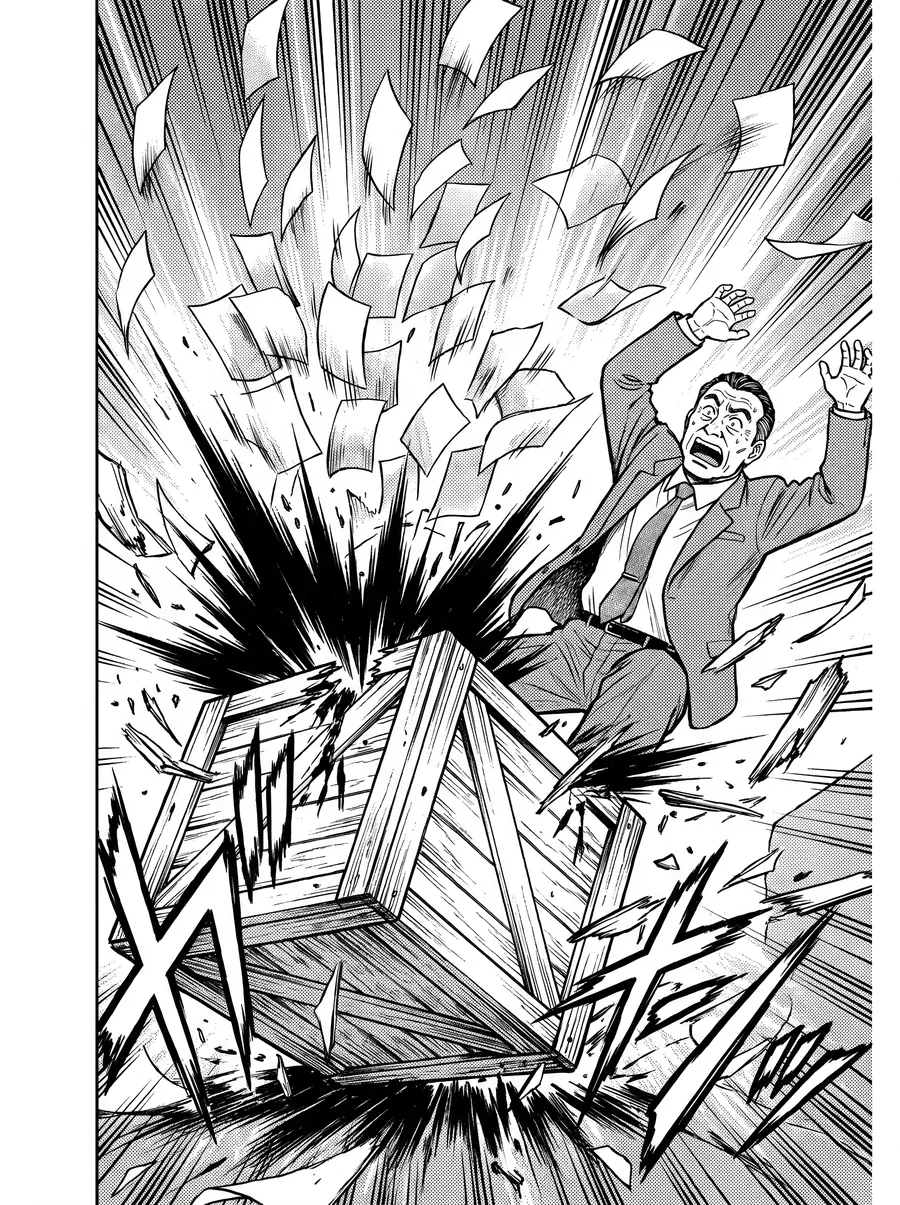
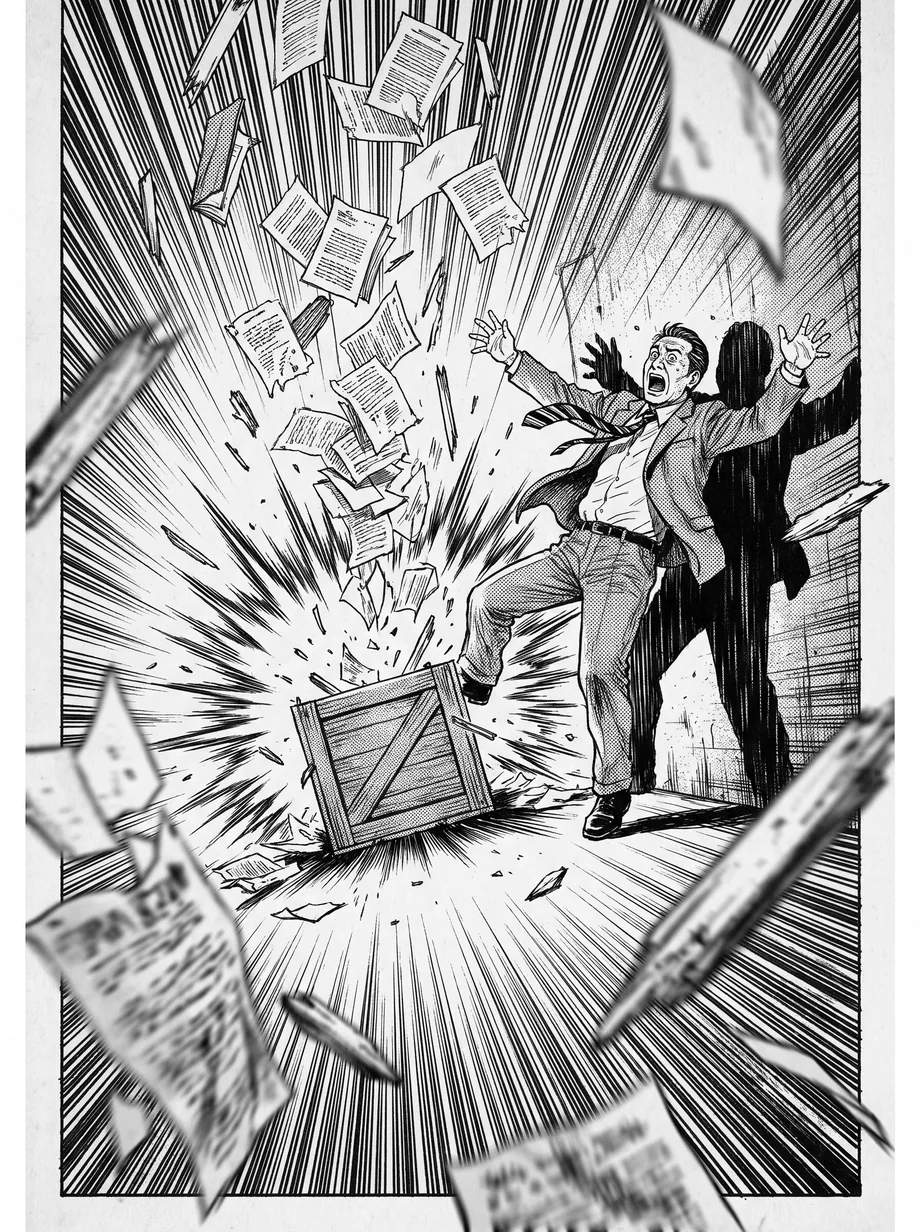
feat: 웹툰 Pro 재생성 + 다의어/워크북/트랙 개편
- 웹툰 4컷을 Nano Banana Pro로 재생성(명작만화 수준), 흑백 정규화
- 다의어: contain/concentration/capital 3개 어휘 카드로 교체(옛 이미지 제거)
- 워크북: 어법 택1 + 빈칸 어휘 채우기 실물 구성으로 교체
- 기본설계/주간사이클 → 자기주도 트랙 vs 업로드 관리 트랙 2단 인포그래픽
- 자리 현황판: '석' 표기 제거, 하남고1·미사강변고2·미사고2 마감임박 / 나머지 신청 가능

diff --git a/v2/index.html b/v2/index.html
@@ -322,6 +322,88 @@ footer b{color:#c6c9d2}
   .mp-bub{font-size:13.5px;padding:10px 12px}
 }
 
+
+/* 자리 현황판 */
+.seat .left.ok{color:#3f7f5c!important;background:#e9f5ee!important}
+.seat.urgent{border-color:#d4553f!important;background:#fff6f3!important}
+.seat.urgent .left{color:#c4472e!important;background:#ffe6df!important;font-weight:800}
+
+/* 다의어 */
+.poly{display:grid;gap:14px;margin:6px 0 4px}
+.pw{background:#fff;border:1px solid var(--paper-line);border-radius:16px;padding:20px 22px;
+  box-shadow:0 8px 22px rgba(25,31,40,.06)}
+.pw-h{display:flex;align-items:baseline;gap:12px;flex-wrap:wrap}
+.pw-h b{font-size:26px;font-weight:900;letter-spacing:-.02em;color:#12203A}
+.pw-h span{font-size:15px;font-weight:700;color:#8a7a52}
+.pw-core{margin:10px 0 14px;font-size:14px;color:var(--muted);background:#faf7f0;
+  border-radius:9px;padding:9px 13px}
+.pw-core b{color:#12203A}
+.pw ul{list-style:none;margin:0;padding:0;display:flex;flex-direction:column;gap:9px}
+.pw li{font-size:14.5px;line-height:1.6;color:#2c3646;display:flex;gap:9px;align-items:flex-start;
+  padding-bottom:9px;border-bottom:1px dashed var(--paper-line)}
+.pw li:last-child{border-bottom:0;padding-bottom:0}
+.pw li .s{flex:0 0 auto;color:#b08a16;font-weight:900}
+.pw li b{margin-right:6px;color:#12203A}
+.pw li u{text-decoration:none;font-weight:800;color:#b4472e;border-bottom:2px solid #f0d9a0}
+.pw li i{display:block;font-style:normal;font-size:13px;color:var(--muted);margin-top:2px}
+.pw-syn{margin-top:14px;font-size:13px;color:var(--muted);background:#f2f6fb;
+  border-radius:9px;padding:9px 13px}
+.pw-syn b{color:#2a4a7a;margin-right:6px}
+
+/* 워크북 */
+.wb{background:#fff;border:1px solid var(--paper-line);border-radius:16px;padding:22px 24px;
+  box-shadow:0 8px 22px rgba(25,31,40,.06)}
+.wb-top{display:flex;align-items:center;gap:11px;padding-bottom:12px;border-bottom:2px solid #12203A}
+.wb-no{width:28px;height:28px;border-radius:8px;background:#12203A;color:#fff;font-weight:900;
+  font-size:15px;display:flex;align-items:center;justify-content:center}
+.wb-top b{font-size:17px;font-weight:800;color:#12203A}
+.wb-pt{margin-left:auto;font-size:13px;font-weight:800;color:#b08a16}
+.wb-q{margin:16px 0 0;padding-left:22px;display:flex;flex-direction:column;gap:14px}
+.wb-q li{font-size:15px;line-height:1.85;color:#22303f}
+.wb-q .ch{display:inline-block;border:1.5px solid #b08a16;border-radius:8px;padding:2px 10px;
+  background:#fffaf0;margin:0 2px}
+.wb-q .ch em{font-style:normal;font-weight:800;color:#12203A}
+.wb-q .bl{display:inline-block;width:130px;border-bottom:2px solid #12203A;margin:0 4px}
+.wb-q .hint{font-size:12.5px;color:#a08a5e;letter-spacing:.06em;margin-left:6px}
+.wb-foot{margin-top:18px;padding-top:14px;border-top:1px dashed var(--paper-line);
+  font-size:13px;color:var(--muted)}
+
+/* 2트랙 */
+.tracks{display:grid;grid-template-columns:1fr 1fr;gap:18px;margin:10px 0 16px}
+.tk{background:#fff;border:1px solid var(--paper-line);border-radius:20px;padding:24px 24px 22px;
+  box-shadow:0 12px 30px rgba(25,31,40,.08);display:flex;flex-direction:column}
+.tk-a{border-top:5px solid #3a6ea8}
+.tk-b{border-top:5px solid #b08a16}
+.tk-badge{display:inline-block;font-size:11.5px;font-weight:800;letter-spacing:.09em;
+  padding:5px 11px;border-radius:999px;background:#eaf1f9;color:#2a4a7a}
+.tk-badge.gold{background:#fbf3e0;color:#8a6a10}
+.tk-h b{display:block;font-size:23px;font-weight:900;letter-spacing:-.02em;margin:11px 0 6px;color:#12203A}
+.tk-h p{margin:0;font-size:14px;color:var(--muted)}
+.tk-tl{margin:18px 0 16px;display:flex;flex-direction:column}
+.tl-row{display:flex;gap:14px;padding:11px 0;border-bottom:1px dashed var(--paper-line);position:relative}
+.tl-row:last-child{border-bottom:0}
+.tl-w{flex:0 0 62px;font-size:13px;font-weight:900;color:#3a6ea8;padding-top:2px}
+.tk-b .tl-w{color:#b08a16}
+.tl-row.opt .tl-w{color:#9aa3ae}
+.tl-b b{display:block;font-size:14.5px;font-weight:800;color:#12203A}
+.tl-b span{display:block;font-size:13px;color:var(--muted);margin-top:2px;line-height:1.5}
+.tk-week{display:grid;grid-template-columns:repeat(7,1fr);gap:5px;margin-top:auto}
+.wd{background:#f6f7f9;border-radius:10px;padding:9px 4px;text-align:center}
+.wd i{display:block;font-style:normal;font-size:12px;font-weight:800;color:#9aa3ae;margin-bottom:5px}
+.wd b{display:block;font-size:11px;font-weight:700;color:#5c6b7f;line-height:1.35}
+.wd small{display:block;font-size:9.5px;font-weight:600;color:#9aa3ae;margin-top:2px}
+.wd.on{background:#e8f0fa}.wd.on i{color:#2a4a7a}.wd.on b{color:#1d3557}
+.tk-b .wd.on{background:#fbf3e0}.tk-b .wd.on i{color:#8a6a10}.tk-b .wd.on b{color:#6b520c}
+.wd.act{background:#eaf6f0}.wd.act i{color:#2f7a54}.wd.act b{color:#245c3f}
+.wd.hot{background:#fdeee9}.wd.hot i{color:#b4472e}.wd.hot b{color:#8f3722}
+.wd.soft{background:#f2f2f4}.wd.soft b{color:#7c8494}
+.tk-note{margin-top:14px;font-size:12.5px;line-height:1.6;color:var(--muted);
+  background:#f7f7f5;border-radius:10px;padding:10px 13px}
+.joinnote{background:#eef4fb;border:1px solid #d5e3f2;border-radius:14px;padding:16px 20px;
+  font-size:14.5px;line-height:1.65;color:#2f4463}
+.joinnote b{color:#12203A}
+@media(max-width:800px){.tracks{grid-template-columns:1fr}.tk-week{grid-template-columns:repeat(4,1fr)}}
+
 </style>
 </head>
 <body>
@@ -533,17 +615,63 @@ footer b{color:#c6c9d2}
       <div class="num">07</div>
       <h3>단어장이 아니라, 어감까지 잡는 다의어 정리</h3>
       <p>다의어는 뜻 나열이 아니라 <b>핵심 어감</b>부터 잡고 갈래를 폅니다. 유의어는 시험이 좋아하는 <b>패러프레이징 짝</b>으로 묶습니다.</p>
-      <img src="../img/cu_polysemy.jpg" alt="진짜 다의어 — 어감과 핵심 의미" loading="lazy" style="margin-bottom:12px">
-      <img src="../img/cu_synonym.jpg" alt="유의어 패러프레이징 정리" loading="lazy">
-      <span class="tag">다의어 · 유의어 패러프레이징 (실물 확대)</span>
+      <div class="poly">
+        <div class="pw">
+          <div class="pw-h"><b>contain</b><span>담다 · 억누르다</span></div>
+          <div class="pw-core">핵심 어감 — <b>안에 가두어 두다</b></div>
+          <ul>
+            <li><span class="s">①</span><b>담고 있다</b> The box <u>contains</u> old files. <i>상자가 오래된 서류를 담고 있다</i></li>
+            <li><span class="s">②</span><b>억누르다</b> He couldn't <u>contain</u> his anger. <i>그는 분노를 억누를 수 없었다</i></li>
+            <li><span class="s">③</span><b>차단·봉쇄하다</b> to <u>contain</u> the spread <i>확산을 막다</i></li>
+          </ul>
+          <div class="pw-syn"><b>패러프레이징</b> contain ↔ hold · include · suppress · curb</div>
+        </div>
+        <div class="pw">
+          <div class="pw-h"><b>concentration</b><span>집중 · 농도</span></div>
+          <div class="pw-core">핵심 어감 — <b>한곳으로 모임</b></div>
+          <ul>
+            <li><span class="s">①</span><b>집중력</b> It requires deep <u>concentration</u>. <i>깊은 집중을 요한다</i></li>
+            <li><span class="s">②</span><b>농도</b> a high <u>concentration</u> of salt <i>높은 소금 농도</i></li>
+            <li><span class="s">③</span><b>밀집</b> a <u>concentration</u> of shops <i>상점의 밀집</i></li>
+          </ul>
+          <div class="pw-syn"><b>패러프레이징</b> concentration ↔ focus · density · cluster</div>
+        </div>
+        <div class="pw">
+          <div class="pw-h"><b>capital</b><span>수도 · 자본 · 대문자</span></div>
+          <div class="pw-core">핵심 어감 — <b>으뜸가는 것 · 머리가 되는 것</b></div>
+          <ul>
+            <li><span class="s">①</span><b>수도</b> Seoul is the <u>capital</u> of Korea. <i>서울은 한국의 수도다</i></li>
+            <li><span class="s">②</span><b>자본</b> raise <u>capital</u> for a startup <i>창업 자본을 모으다</i></li>
+            <li><span class="s">③</span><b>대문자</b> Write it in <u>capital</u> letters. <i>대문자로 쓰시오</i></li>
+          </ul>
+          <div class="pw-syn"><b>패러프레이징</b> capital ↔ funds · assets · principal city</div>
+        </div>
+      </div>
+      <span class="tag">다의어 · 유의어 패러프레이징 (실물 구성)</span>
     </div>
 
     <div class="cu rv">
       <div class="num">08</div>
       <h3>워크북 — 출제 포인트만 뚫어 놓은 시험지</h3>
       <p>분석서를 봤으면 확인해야 합니다. 어법 선택형 · 서술형 · <b>서술형 영작</b> · 빈칸 — 출제 가능성이 높은 지점만 박스로 뚫어 놓은 복습 워크북이 분석서와 별개로 나갑니다.</p>
-      <img src="../img/cu_workbook.jpg" alt="빈칸 워크북 실물" loading="lazy">
-      <span class="tag">복습 워크북 · 직독직해 빈칸 파트 (실물)</span>
+      <div class="wb">
+        <div class="wb-top"><span class="wb-no">1</span><b>어법 — 둘 중 하나 고르기</b><span class="wb-pt">각 2점</span></div>
+        <ol class="wb-q">
+          <li>Before the Internet, companies could <span class="ch"><em>hide</em> / <em>hiding</em></span> their flaws.</li>
+          <li>Everything <span class="ch"><em>popped</em> / <em>was popped</em></span> out of the box.</li>
+          <li>Now consumers can compare prices, reviews, and even a <span class="ch"><em>company's</em> / <em>companies</em></span> truthfulness.</li>
+          <li>The power <span class="ch"><em>has shifted</em> / <em>has been shifted</em></span> to the customer.</li>
+        </ol>
+        <div class="wb-top" style="margin-top:22px"><span class="wb-no">2</span><b>빈칸 — 알맞은 어휘 채우기</b><span class="wb-pt">각 3점</span></div>
+        <ol class="wb-q blank">
+          <li>The box could no longer <span class="bl"></span> what was inside. <span class="hint">c______</span></li>
+          <li>Customers now check a company's <span class="bl"></span> before buying. <span class="hint">t____________</span></li>
+          <li>Everything <span class="bl"></span> out of the box at once. <span class="hint">p_____</span></li>
+          <li>Now customers can talk <span class="bl"></span>. <span class="hint">b___</span></li>
+        </ol>
+        <div class="wb-foot">서술형 영작 · 직독직해 빈칸 파트는 실물 워크북에 이어집니다</div>
+      </div>
+      <span class="tag">적중 워크북 · 어법 택1 + 빈칸 어휘 (실물 구성)</span>
     </div>
 
     <div class="cu rv" style="margin-bottom:0">
@@ -596,27 +724,47 @@ footer b{color:#c6c9d2}
     </div>
     <p class="sample-tag">※ 리포트 양식 예시. 실제 리포트는 자녀의 제출 데이터로 작성되며, 발송 전 원장이 직접 확인합니다.</p>
 
-    <div class="mplan rv" aria-label="기본 설계">
-      <h4>📅 기본 설계 <span>— 4~6주 완성 (최대 8주)</span></h4>
-      <div class="mrow"><span class="wk">1주</span><span class="mtxt">분석서 전량 수령·정독 + 동형 1회 — <b>동형은 첫 주부터</b></span><span class="mtag">개념+실전</span></div>
-      <div class="mrow"><span class="wk">2~5주</span><span class="mtxt">매주 동형 1회 + 워크북(어법·서술형·영작·빈칸) 순환 + 지문별 드릴</span><span class="mtag">문제 5주</span></div>
-      <div class="mrow"><span class="wk">6주</span><span class="mtxt">오답 총정리 + 마무리 점검 — 여기까지가 완성</span><span class="mtag">6주 완성</span></div>
-      <div class="mrow"><span class="wk">+7~8주</span><span class="mtxt">원하는 경우만 — 보충·유형별 문제 신청 구간</span><span class="mtag">선택</span></div>
-    </div>
-    <div class="join-late rv"><b>중간에 합류해도 됩니다.</b> 언제 신청하든 — 오늘 신청하면 내일 시험 범위를 확인해 드리고, 확인 즉시 <b>분석서 전량</b>이 지급됩니다. 이전 주차에 나간 동형·워크북까지 <b>한꺼번에 일괄 수령</b>하고, 남은 주수에 맞춘 플랜을 다시 받습니다.</div>
+    <div class="tracks rv">
+      <div class="tk tk-a">
+        <div class="tk-h"><span class="tk-badge">자료 시즌패스</span><b>자기주도 트랙</b>
+          <p>자료가 전부 옵니다. 속도는 아이가 정합니다.</p></div>
+        <div class="tk-tl">
+          <div class="tl-row"><span class="tl-w">1주</span><div class="tl-b"><b>분석서 전량 수령</b><span>범위 전체 + 동형 1회 — 동형은 첫 주부터</span></div></div>
+          <div class="tl-row"><span class="tl-w">2~5주</span><div class="tl-b"><b>매주 동형 1회 + 워크북</b><span>어법·서술형·영작·빈칸 순환 + 지문별 드릴</span></div></div>
+          <div class="tl-row"><span class="tl-w">6주</span><div class="tl-b"><b>오답 총정리</b><span>마무리 점검 — 여기까지가 완성</span></div></div>
+          <div class="tl-row opt"><span class="tl-w">+7~8주</span><div class="tl-b"><b>선택 구간</b><span>보충·유형별 문제 신청</span></div></div>
+        </div>
+        <div class="tk-week">
+          <div class="wd on"><i>월</i><b>세트 발송</b></div><div class="wd"><i>화</i><b>학습</b></div>
+          <div class="wd"><i>수</i><b>학습</b></div><div class="wd"><i>목</i><b>학습</b></div>
+          <div class="wd"><i>금</i><b>학습</b></div><div class="wd"><i>토</i><b>학습</b></div>
+          <div class="wd soft"><i>일</i><b>리포트<small>무료 선택</small></b></div>
+        </div>
+        <div class="tk-note">틀린 개수만 보내면 일요일 리포트가 무료로 갑니다. 안 보내도 자료는 그대로 다 나갑니다.</div>
+      </div>
 
-    <div class="weekboard rv" aria-label="주간 사이클">
-      <div class="wb-title">일주일은 이렇게 돕니다 <span>왼쪽에서 오른쪽으로, 월→일</span></div>
-      <div class="wb-row">
-        <div class="wb-day a1"><b>월</b><i>📗</i><span>주간 세트<br>발송</span></div>
-        <div class="wb-day"><b>화</b><i>·</i><span>학습</span></div>
-        <div class="wb-day a2"><b>수</b><i>🔢</i><span>기록 제출<br><em>(선택)</em></span></div>
-        <div class="wb-day a3"><b>목</b><i>🎯</i><span>보충 발송<br><em>관리+</em></span></div>
-        <div class="wb-day"><b>금</b><i>·</i><span>학습</span></div>
-        <div class="wb-day"><b>토</b><i>·</i><span>학습</span></div>
-        <div class="wb-day a4"><b>일</b><i>📊</i><span>주간<br>리포트</span></div>
+      <div class="tk tk-b">
+        <div class="tk-h"><span class="tk-badge gold">관리+ 시즌패스</span><b>업로드 관리 트랙</b>
+          <p>푼 걸 올리면, 다음 주가 아이에 맞춰 다시 짜입니다.</p></div>
+        <div class="tk-tl">
+          <div class="tl-row"><span class="tl-w">1주</span><div class="tl-b"><b>분석서 전량 + 개인 플랜</b><span>남은 주수에 맞춘 첫 설계</span></div></div>
+          <div class="tl-row"><span class="tl-w">2~5주</span><div class="tl-b"><b>업로드 → 스캔 분석 → 보충</b><span>취약 유형을 찾아 그 유형만 보충 발송</span></div></div>
+          <div class="tl-row"><span class="tl-w">6주</span><div class="tl-b"><b>누적 오답 기반 마무리</b><span>끝까지 안 잡힌 유형만 집중</span></div></div>
+          <div class="tl-row opt"><span class="tl-w">+7~8주</span><div class="tl-b"><b>선택 구간</b><span>전 유형 일괄 수령 가능</span></div></div>
+        </div>
+        <div class="tk-week">
+          <div class="wd on"><i>월</i><b>세트 + 플랜</b></div><div class="wd"><i>화</i><b>학습</b></div>
+          <div class="wd act"><i>수</i><b>업로드<small>사진</small></b></div>
+          <div class="wd act"><i>목</i><b>보충 발송</b></div>
+          <div class="wd"><i>금</i><b>학습</b></div><div class="wd"><i>토</i><b>학습</b></div>
+          <div class="wd hot"><i>일</i><b>리포트<small>학생·학부모</small></b></div>
+        </div>
+        <div class="tk-note">수요일까지 미업로드면 목요일 아침 학생·학부모에게 동시 알림이 갑니다. 잔소리는 시스템이 합니다.</div>
       </div>
     </div>
+
+    <div class="joinnote rv"><b>중간에 합류해도 됩니다.</b> 오늘 신청하면 내일 시험 범위를 확인해 드리고, 확인 즉시 <b>분석서 전량</b>이 지급됩니다. 이전 주차에 나간 동형·워크북은 <b>한꺼번에 받을지, 이번 주차부터 받을지</b> 고르실 수 있습니다.</div>
+
   </div>
 </section>
 
@@ -665,18 +813,18 @@ footer b{color:#c6c9d2}
     </div>
 
     <div class="seats rv" aria-label="관리+ 정원 현황">
-      <div class="seat"><span class="left">2석</span><b>미사고 1</b><span>영어</span></div>
-      <div class="seat"><span class="left">2석</span><b>미사고 2</b><span>영어</span></div>
-      <div class="seat"><span class="left">2석</span><b>미사강변고 1</b><span>영어</span></div>
-      <div class="seat"><span class="left">2석</span><b>미사강변고 2</b><span>영어</span></div>
-      <div class="seat"><span class="left">2석</span><b>하남고 1</b><span>영어</span></div>
-      <div class="seat"><span class="left">2석</span><b>하남고 2</b><span>영어</span></div>
-      <div class="seat"><span class="left">2석</span><b>풍산고 1</b><span>영어</span></div>
-      <div class="seat"><span class="left">2석</span><b>풍산고 2</b><span>영어</span></div>
-      <div class="seat"><span class="left">2석</span><b>남한고 1</b><span>영어</span></div>
-      <div class="seat"><span class="left">2석</span><b>남한고 2</b><span>영어</span></div>
-      <div class="seat"><span class="left">2석</span><b>신장고 1</b><span>영어</span></div>
-      <div class="seat"><span class="left">2석</span><b>신장고 2</b><span>영어</span></div>
+      <div class="seat"><span class="left ok">신청 가능</span><b>미사고 1</b><span>영어</span></div>
+      <div class="seat urgent"><span class="left">마감임박</span><b>미사고 2</b><span>영어</span></div>
+      <div class="seat"><span class="left ok">신청 가능</span><b>미사강변고 1</b><span>영어</span></div>
+      <div class="seat urgent"><span class="left">마감임박</span><b>미사강변고 2</b><span>영어</span></div>
+      <div class="seat urgent"><span class="left">마감임박</span><b>하남고 1</b><span>영어</span></div>
+      <div class="seat"><span class="left ok">신청 가능</span><b>하남고 2</b><span>영어</span></div>
+      <div class="seat"><span class="left ok">신청 가능</span><b>풍산고 1</b><span>영어</span></div>
+      <div class="seat"><span class="left ok">신청 가능</span><b>풍산고 2</b><span>영어</span></div>
+      <div class="seat"><span class="left ok">신청 가능</span><b>남한고 1</b><span>영어</span></div>
+      <div class="seat"><span class="left ok">신청 가능</span><b>남한고 2</b><span>영어</span></div>
+      <div class="seat"><span class="left ok">신청 가능</span><b>신장고 1</b><span>영어</span></div>
+      <div class="seat"><span class="left ok">신청 가능</span><b>신장고 2</b><span>영어</span></div>
     </div>
   </div>
 </section>
